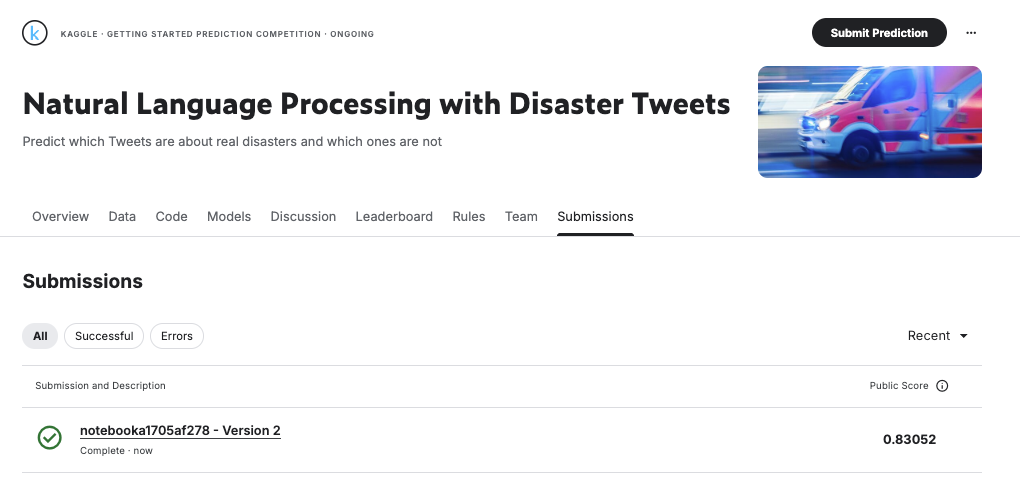
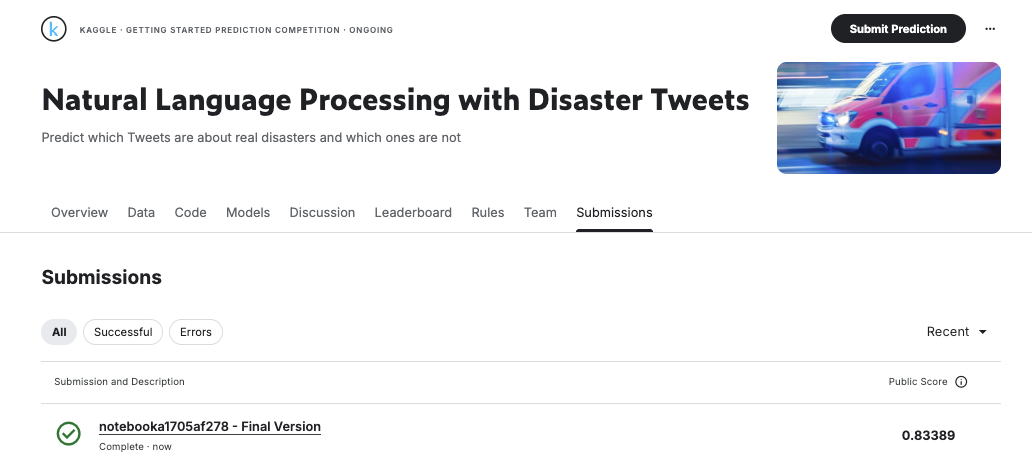
Add files via upload

diff --git a/README.md b/README.md
@@ -23,7 +23,6 @@ I will analyze the data using NLP and produce an output csv file to compare agai
 
 ![Heatmap](Correlation_heatmap.png)
 
-
 ![Confusion Matrix](Final_CM.png)
 
-
+![Kaggle](Kaggle_Competition_Score.png)
